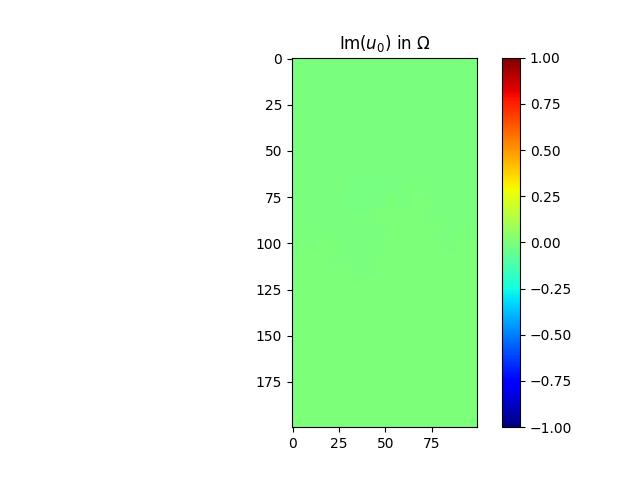
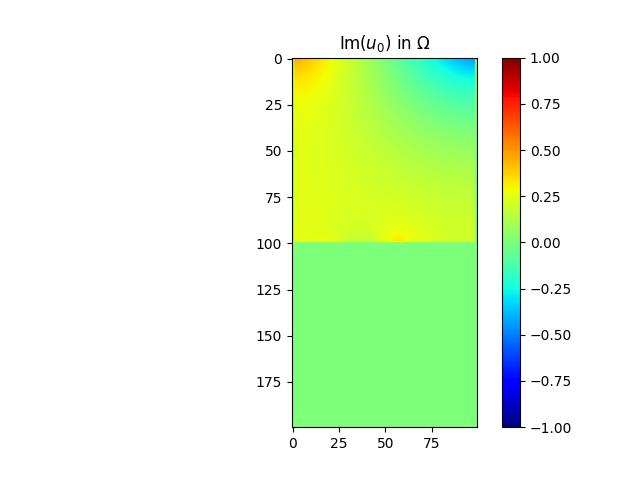
rien de plus que g

Changed region(s): [[0.4375, 0.0938, 0.75, 0.5312]]

diff --git a/demo_control_polycopie2023.py b/demo_control_polycopie2023.py
@@ -187,6 +187,7 @@ def your_optimization_procedure(domain_omega, spacestep, wavenumber, f, f_dir, f
 
             print('    b. computing projected gradient')
             chi = compute_projected(chi, domain_omega, V_obj)
+            alpha_rob=Alpha*chi
             
             print('    c. computing solution of Helmholtz problem, i.e., u')
             u=processing.solve_helmholtz(domain_omega, spacestep, wavenumber, f, f_dir, f_neu, f_rob, beta_pde, alpha_pde, alpha_dir, beta_neu, beta_rob, alpha_rob)
@@ -246,7 +247,7 @@ if __name__ == '__main__':
     # -- set parameters of the geometry
     N = 100  # number of points along x-axis
     M = 2 * N  # number of points along y-axis
-    level = 1 # level of the fractal
+    level = 0 # level of the fractal
     spacestep = 1.0 / N  # mesh size
 
     # -- set parameters of the partial differential equation
@@ -254,8 +255,7 @@ if __name__ == '__main__':
     ky = -1.0
     wavenumber = np.sqrt(kx**2 + ky**2)
     omega = 340*wavenumber
-    g = lambda y, omega : 0.1*np.exp(-(y**2)/8)*np.cos(omega*1)
-    '''à revoir cette forme car on se sert pas de kx, ky'''
+    g = lambda x, omega : np.exp(complex(0,1)*(kx*x+ky*0))
 
     # ----------------------------------------------------------------------
     # -- Do not modify this cell, these are the values that you will be assessed against.
@@ -317,19 +317,19 @@ if __name__ == '__main__':
     # -- Fell free to modify the function call in this cell.
     # ----------------------------------------------------------------------
     # -- compute optimization
-    chi, energy, u, grad = your_optimization_procedure(domain_omega, spacestep, wavenumber, f, f_dir, f_neu, f_rob,
-                           beta_pde, alpha_pde, alpha_dir, beta_neu, beta_rob, alpha_rob,
-                           Alpha, mu, chi, V_obj)
-    # --- en of optimization
-    chin = chi.copy()
-    un = u.copy()
+    # chi, energy, u, grad = your_optimization_procedure(domain_omega, spacestep, wavenumber, f, f_dir, f_neu, f_rob,
+    #                        beta_pde, alpha_pde, alpha_dir, beta_neu, beta_rob, alpha_rob,
+    #                        Alpha, mu, chi, V_obj)
+    # # --- en of optimization
+    # chin = chi.copy()
+    # un = u.copy()
 
 
     # -- plot chi, u, and energy
     postprocessing._plot_uncontroled_solution(u0, chi0)
-    postprocessing._plot_controled_solution(un, chin)
-    err = un - u0
-    postprocessing._plot_error(err)
-    postprocessing._plot_energy_history(energy)
+    # postprocessing._plot_controled_solution(un, chin)
+    # err = un - u0
+    # postprocessing._plot_error(err)
+    # postprocessing._plot_energy_history(energy)
 
     print('End.')
